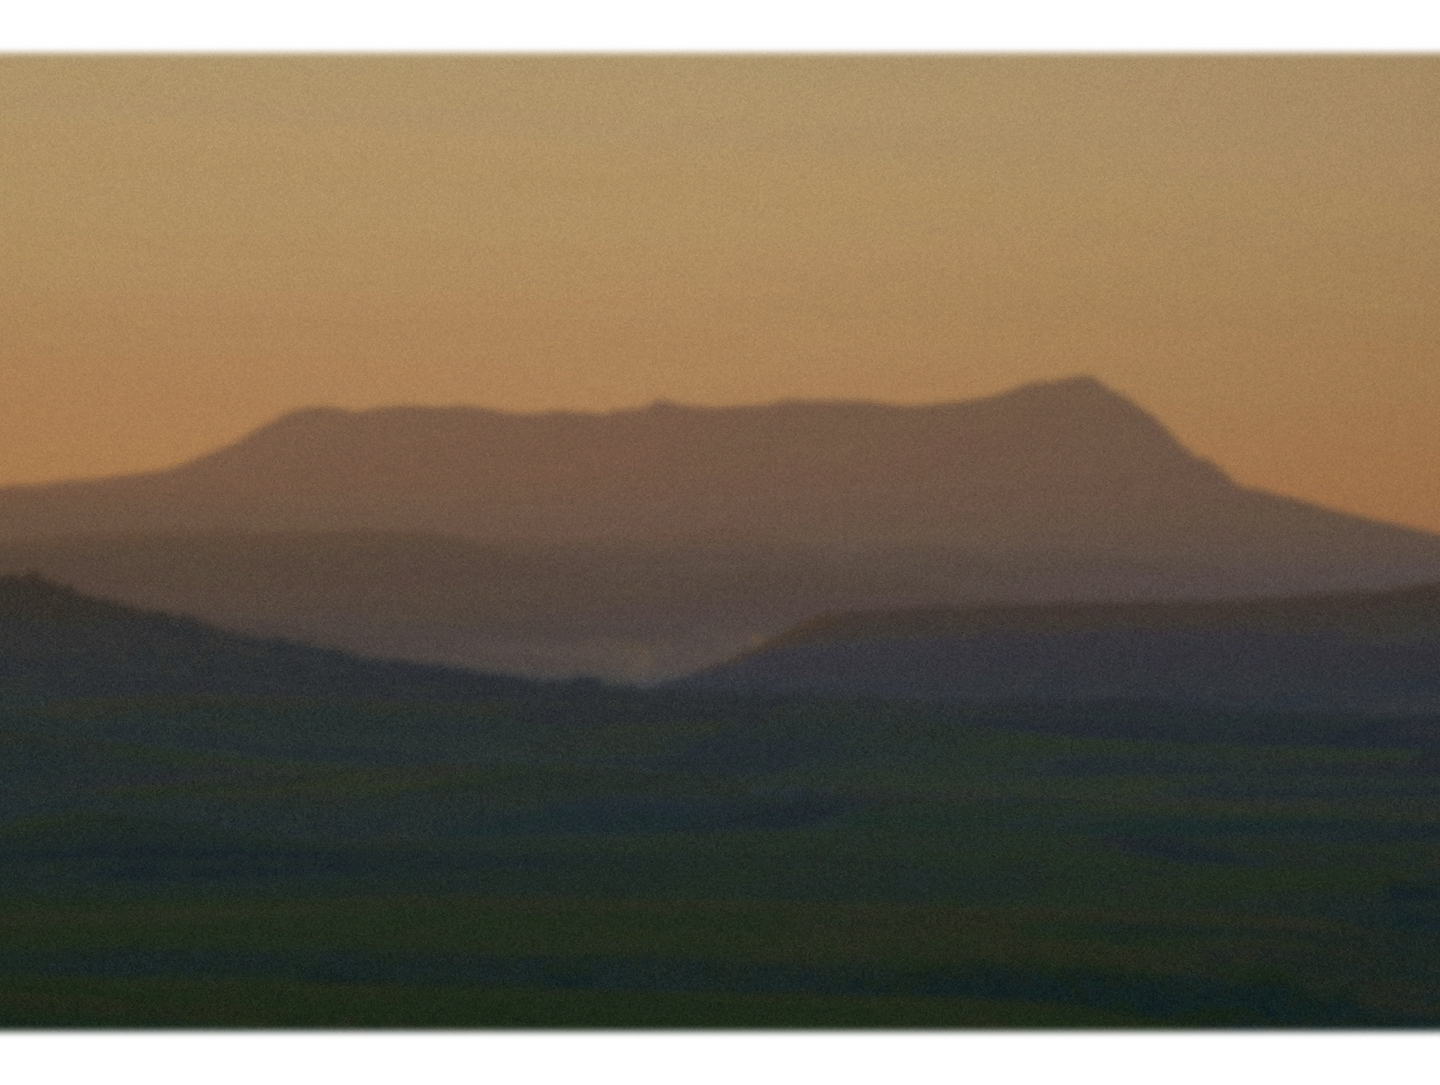
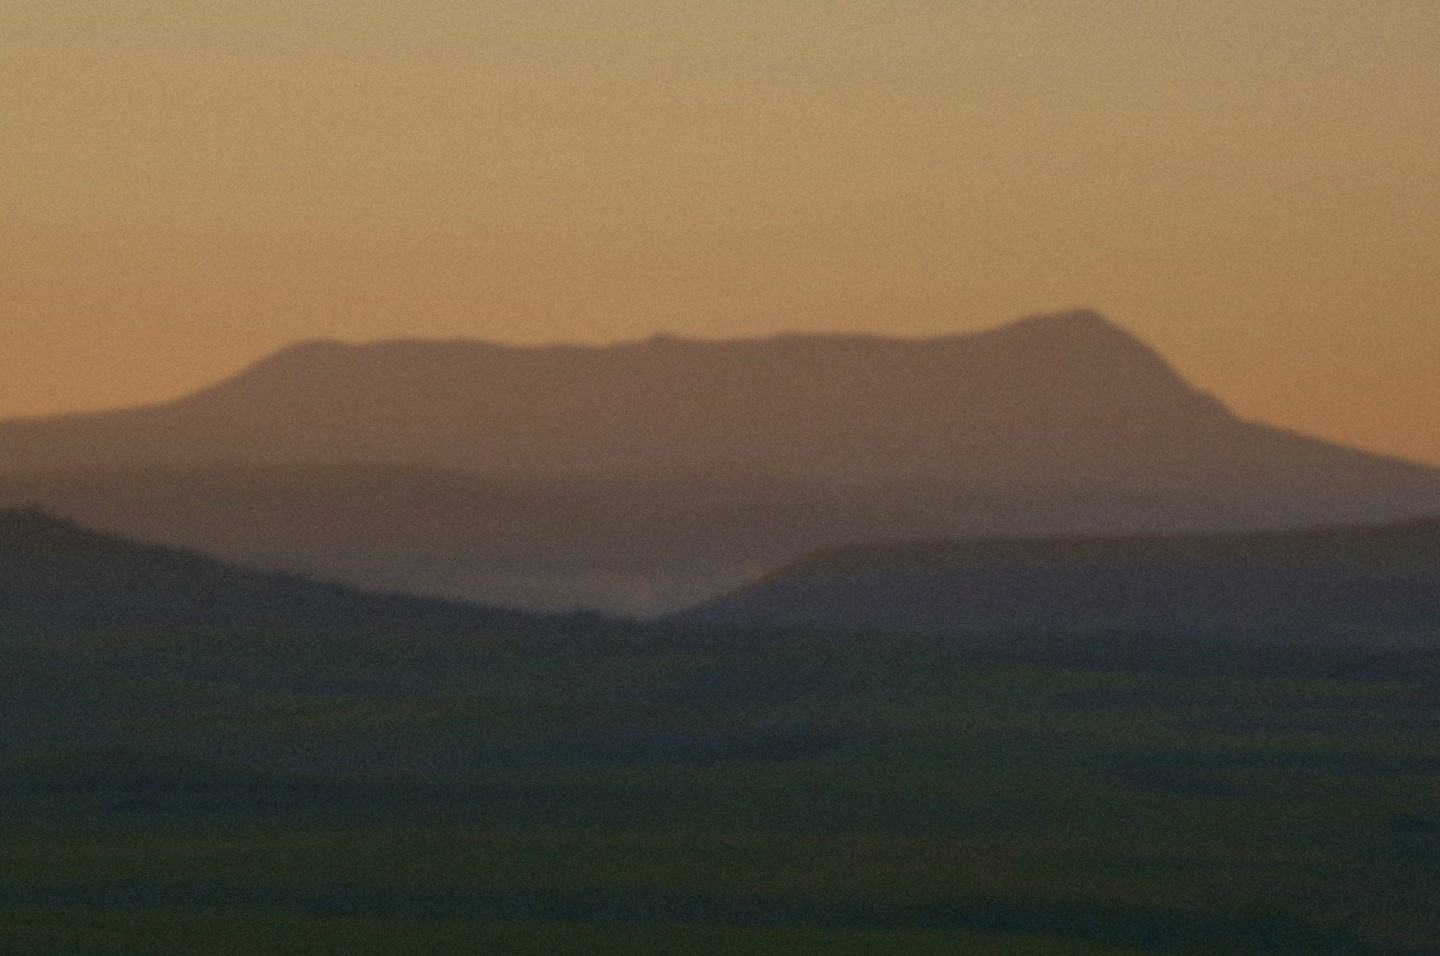
who are we checkpoint

diff --git a/src/features/landing-page/components/WhoAreWe/constants/who-are-we-data.tsx b/src/features/landing-page/components/WhoAreWe/constants/who-are-we-data.tsx
@@ -1,0 +1,42 @@
+export const whoAreWeData = [
+  {
+    imageUrl: '/images/mariana.jpg',
+    name: 'Lic. Mariana Kerestezachi',
+    description: (
+      <p>
+        Co-Founder & Group Program Lead HOLDING FAMILIES. <span className='font-bold'>Licensed Psychologist from Argentina</span>, now <span className='font-bold'>based in the U.S.</span>, with <span className='font-bold'>17+ years of experience</span> working with <span className='font-bold'>families, children with autism, and behavioral challenges.</span> She founded and directed a hospital department specializing in diagnosis and treatment for children with disabilities and co-founded CPI, a private clinic for family and child therapy. She worked at Cayuga Centers Miami Florida (nonprofit organization from NY) for two years and a half, leading parenting workshops and group coaching
+      </p>
+    ),
+    education: (
+      <div className='text-justify'>
+        <span className='font-bold'>Education & Certifications:</span>
+        <ul className='list-disc pl-4 mt-2'>
+          <li>Licensed Psychologist (Universidad de Buenos Aires, Argentina) - Honors</li>
+          <li>Master in Clinical Psychology (Universidad de Buenos Aires, Argentina)</li>
+          <li>Certified in ADOS, ADI-R & Natural Nutrition (IATENA)</li>
+          <li>Bachelor's in Psychology (USA), Certified Life Coach, Incredible Years Certified</li>
+        </ul>
+      </div>
+    )
+
+  },
+  {
+    imageUrl: '/images/paula.jpg',
+    name: 'Lic. Paula Coloma',
+    description: (
+      <p>
+        Co-Founder & Owner HOLDING FAMILIES.  <span className='font-bold'>Licensed Psychologist from Argentina, specialized in child and adolescent psychology, and a Certified Life Coach in the U.S.</span> With <span className='font-bold'>10+ years of experience</span>, she has worked in <span className='font-bold'>public and private healthcare and led interdisciplinary teams</span>. She founded Elet Medical Center and has experience in healthcare management, including launching a private emergency service and leading a strategic health project in the Bahamas. Founder of Medkit Health, a healthcare company integrating physical and emotional well-being through a holistic approach.
+      </p>
+    ),
+    education: (
+      <div className='text-justify'>
+        <span className='font-bold'>Education & Certifications:</span>
+        <ul className='list-disc pl-4 mt-2'>
+          <li>Licensed Psychologist (Universidad Barcelo, Buenos Aires) – Honors</li>
+          <li>Certified Professional Life Coach (USA)</li>
+        </ul>
+      </div>
+    )
+
+  }
+]

diff --git a/src/features/landing-page/components/WhoAreWe/WhoAreWe.tsx b/src/features/landing-page/components/WhoAreWe/WhoAreWe.tsx
@@ -1,0 +1,63 @@
+'use client'
+import Image from 'next/image'
+import { useRef } from 'react'
+import { motion, useScroll, useTransform } from 'framer-motion'
+import WhoAreWeCard from '@/features/landing-page/components/WhoAreWe/components/WhoAreWeCard'
+import { whoAreWeData } from '@/features/landing-page/components/WhoAreWe/constants/who-are-we-data'
+
+export default function WhoAreWe (): React.JSX.Element {
+  const sectionRef = useRef(null)
+
+  const { scrollYProgress } = useScroll({
+    target: sectionRef,
+    offset: ['start end', 'end start']
+  })
+  const y = useTransform(scrollYProgress, [0, 1], ['-10%', '10%'])
+
+  return (
+    <section
+      ref={sectionRef}
+      id='home'
+      className='relative min-h-screen h-auto w-full overflow-hidden'
+    >
+      <motion.div className='absolute h-[110%] w-full' style={{ top: y }}>
+        {/* Image wrapper */}
+        <div className='relative h-full w-full'>
+          <Image
+            alt='CLIC Pilates Studio'
+            title='Pilates Studio'
+            src='/images/mountain_bg.jpg'
+            fill
+            priority
+            quality={100}
+            sizes='100vw'
+            className='object-cover object-top'
+          />
+
+          {/* Black overlay for better text visibility */}
+          <div className='absolute inset-0 bg-black/10' />
+        </div>
+      </motion.div>
+
+      {/* Content container - centered for all screen sizes */}
+      <div className='absolute inset-0 flex gap-16 h-full w-full flex-col items-center justify-start px-10 py-16'>
+
+        <h5 className='text-[#F2EBDC] font-ivy tracking-widest text-center text-3xl'>BEHIND <br /> HOLDING FAMILIES</h5>
+
+        <div className='flex flex-col md:flex-row items-center justify-evenly w-full'>
+          {whoAreWeData.map((person, index) => (
+            <WhoAreWeCard
+              key={index}
+              imageUrl={person.imageUrl}
+              name={person.name}
+              description={person.description}
+              education={person.education}
+            />
+          ))}
+        </div>
+
+      </div>
+
+    </section>
+  )
+}

diff --git a/src/features/landing-page/components/WhoAreWe/components/WhoAreWeCard.tsx b/src/features/landing-page/components/WhoAreWe/components/WhoAreWeCard.tsx
@@ -1,0 +1,24 @@
+import Image from 'next/image'
+import React, { JSX } from 'react'
+
+interface WhoAreWeCardProps {
+  imageUrl: string
+  name: string
+  description: string | JSX.Element
+  education: string | JSX.Element
+}
+
+export default function WhoAreWeCard ({ imageUrl, name, description, education }: WhoAreWeCardProps): JSX.Element {
+  return (
+    <div className='rounded-4xl bg-cream hover:shadow-2xl transform transition-all duration-300 ease-in-out flex flex-col gap-4 p-8 relative max-w-xl h-full'>
+      <Image src={imageUrl} width={100} height={100} alt={name} className='rounded-full aspect-square absolute -top-10 left-1/2 -translate-x-1/2' />
+
+      <p className='font-semibold mt-10 text-center text-2xl'>{name}</p>
+
+      <div className='tracking-tight'>{description}</div>
+
+      <div className='tracking-tight'>{education}</div>
+
+    </div>
+  )
+}

diff --git a/src/features/landing-page/LandingPage.tsx b/src/features/landing-page/LandingPage.tsx
@@ -7,6 +7,7 @@ import Hero from '@/features/landing-page/components/Hero'
 import Mission from '@/features/landing-page/components/Mission'
 import OurBrand from '@/features/landing-page/components/OurBrand'
 import OurServicesSection from './components/OurServices/OurServicesSection'
+import WhoAreWe from './components/WhoAreWe/WhoAreWe'
 
 export default function LandingPage (): React.JSX.Element {
   // Lenis smooth scroll
@@ -38,8 +39,7 @@ export default function LandingPage (): React.JSX.Element {
         <Mission />
         <OurBrand />
         <OurServicesSection />
-
-        {/* Add more sections here */}
+        <WhoAreWe />
 
       </main>
 
